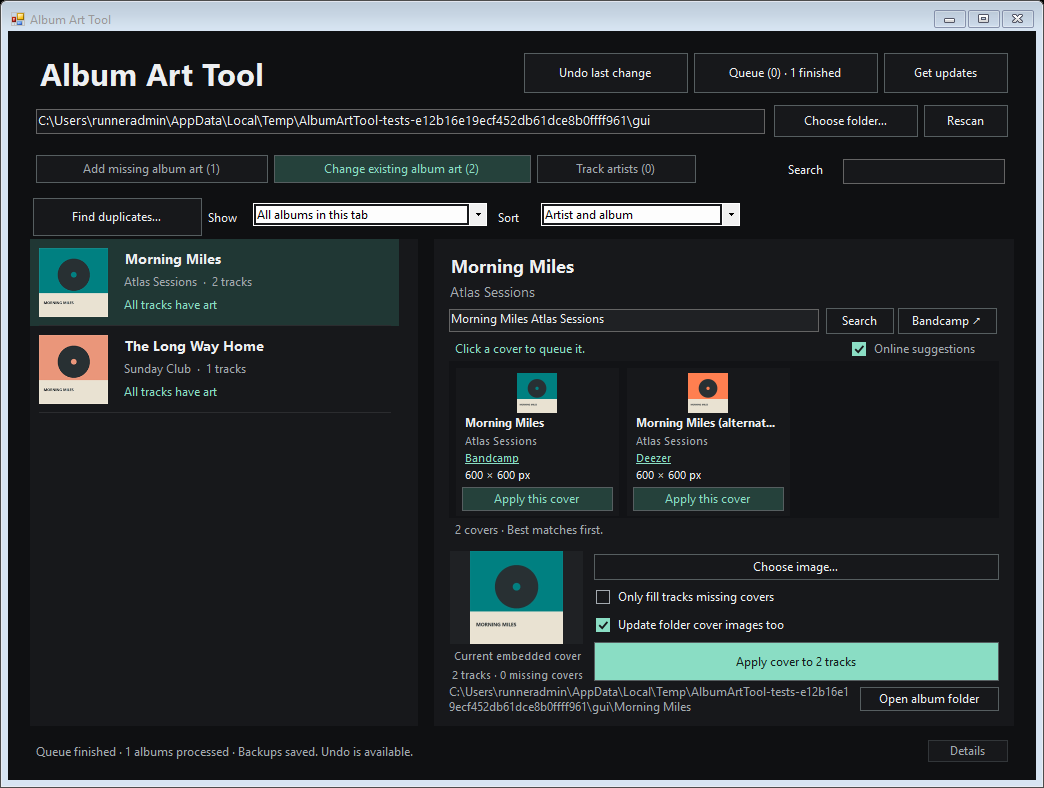
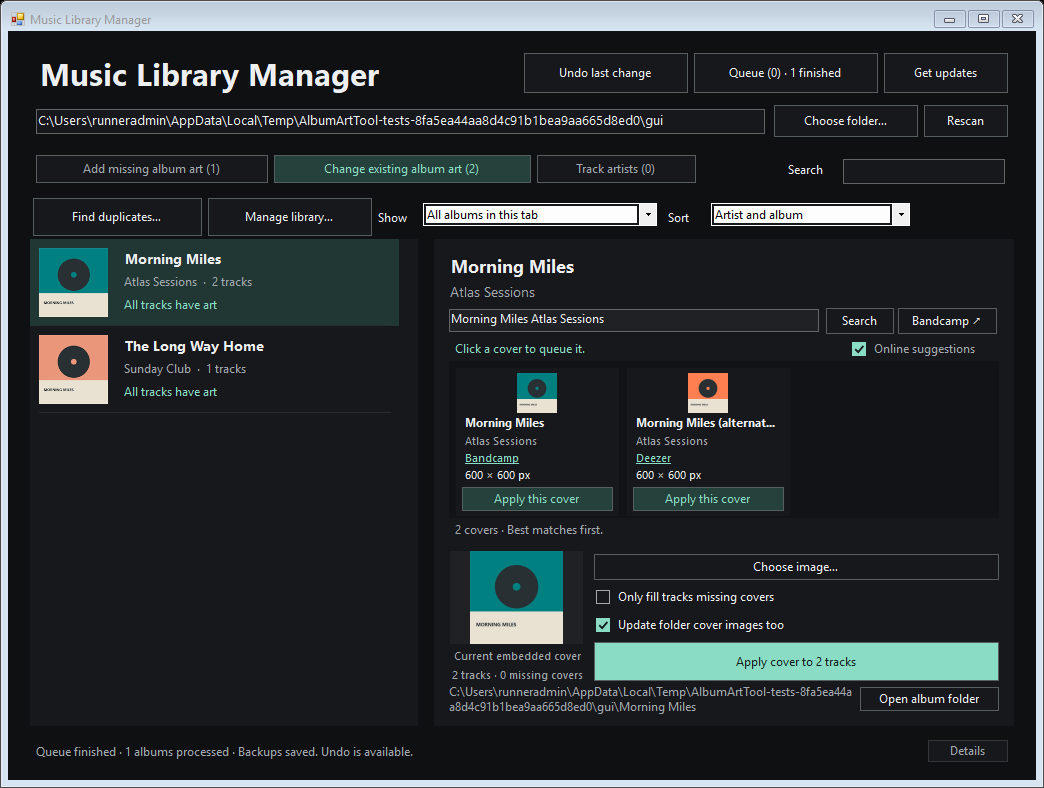
[release] Publish Music Library Manager 2.0 with unified processing and persistent Undo

diff --git a/src/AlbumArtTool/Management/LibraryPlan.cs b/src/AlbumArtTool/Management/LibraryPlan.cs
@@ -75,7 +75,7 @@ namespace AlbumArtTool.Management
         }
         internal static bool ShouldConvert(Track track, LibraryOptions options)
         {
-            if (!options.Convert) return false;
+            if (!options.Convert || track.HasVideo) return false;
             bool mp3 = Path.GetExtension(track.Path).Equals(".mp3", StringComparison.OrdinalIgnoreCase);
             return mp3 ? track.Bitrate > 320 : track.Lossless || track.Bitrate > 320 || options.ConvertOtherLossy;
         }
@@ -129,7 +129,8 @@ namespace AlbumArtTool.Management
                     if (row.Convert) row.Target = Path.ChangeExtension(row.Target, ".mp3");
                     LibraryPaths.Safe(row.Target, options.Root);
                     if (row.Target.Length > 250) throw new IOException("The organized path is longer than 250 characters. Shorten the artist/album/file names first.");
-                    if (!row.Convert && options.Convert) row.Reason = (row.Reason ?? "") + (track.Lossless ? "" : " Existing MP3/lower-bitrate lossy audio is not re-encoded.");
+                    if (track.HasVideo && options.Convert) row.Reason = "This file has video; automatic audio conversion is skipped.";
+                    if (!track.HasVideo && !row.Convert && options.Convert) row.Reason = (row.Reason ?? "") + (track.Lossless ? "" : " Existing MP3/lower-bitrate lossy audio is not re-encoded.");
                     actions.Add(track.Path, row);
                 }
                 catch (Exception e) when (Scanner.IsFileError(e) || Artwork.IsImageError(e)) { plan.Issues.Add(track.Path + ": " + e.Message); }
@@ -141,7 +142,7 @@ namespace AlbumArtTool.Management
                 var confirmed = matches.Songs.Where(g => g.Confirmed).Select(g => g.Tracks.ToArray()).ToList();
                 // Other containers can be confirmed by FFmpeg's demuxed packet hash when the encoder is available.
                 if (!string.IsNullOrEmpty(options.EncoderPath))
-                    foreach (var group in tracks.Where(t => !new[] { ".mp3", ".flac" }.Contains(Path.GetExtension(t.Path).ToLowerInvariant())).GroupBy(t => SongKey(t, albumFor[t.Path])).Where(g => g.Count() > 1))
+                    foreach (var group in tracks.Where(t => !t.HasVideo && !new[] { ".mp3", ".flac" }.Contains(Path.GetExtension(t.Path).ToLowerInvariant())).GroupBy(t => SongKey(t, albumFor[t.Path])).Where(g => g.Count() > 1))
                     {
                         token.ThrowIfCancellationRequested();
                         var hashes = new List<Tuple<Track, string>>();

diff --git a/tests/ManagementTests.cs b/tests/ManagementTests.cs
@@ -46,6 +46,7 @@ internal static partial class Tests
         Assert(Artwork.Square(cropped).SequenceEqual(cropped), "already-square artwork remains byte identical");
         foreach (string extension in new[] { ".mp3", ".m4a" })
             Assert(!LibraryPaths.ShouldConvert(new Track { Path = "x" + extension, Bitrate = 256 }, new LibraryOptions { Convert = true }), "default conversion does not upscale lower-bitrate lossy " + extension);
+        Assert(!LibraryPaths.ShouldConvert(new Track { Path = "video.mp4", HasVideo = true, Bitrate = 500 }, new LibraryOptions { Convert = true, ConvertOtherLossy = true }), "video containers are not silently replaced with audio-only files");
         Assert(!LibraryPaths.ShouldConvert(new Track { Path = "x.mp3", Bitrate = 320 }, new LibraryOptions { Convert = true }), "existing MP3 320 is not re-encoded");
         Assert(LibraryPaths.ShouldConvert(new Track { Path = "x.flac", Bitrate = 100, Lossless = true }, new LibraryOptions { Convert = true }), "lossless source is convertible even at a low compressed bitrate");
         Assert(LibraryPaths.ShouldConvert(new Track { Path = "x.m4a", Bitrate = 400 }, new LibraryOptions { Convert = true }), "over-320 lossy source is convertible");

diff --git a/src/AlbumArtTool/Core/Scanner.cs b/src/AlbumArtTool/Core/Scanner.cs
@@ -60,7 +60,7 @@ namespace AlbumArtTool.Core
                             album.Tracks.Add(new Track { Path = path, Title = file.Tag.Title ?? Path.GetFileNameWithoutExtension(path),
                                 Performer = file.Tag.FirstPerformer ?? "", Performers = file.Tag.Performers.ToArray(), AlbumArtists = file.Tag.AlbumArtists.ToArray(),
                                 AlbumTitle = file.Tag.Album ?? "", Disc = file.Tag.Disc, DiscCount = file.Tag.DiscCount, Number = file.Tag.Track,
-                                Bitrate = file.Properties.AudioBitrate,
+                                Bitrate = file.Properties.AudioBitrate, HasVideo = (file.Properties.MediaTypes & TagLib.MediaTypes.Video) != 0,
                                 Codec = string.Join("; ", file.Properties.Codecs.Where(c => c != null).Select(c => c.Description)),
                                 Lossless = Lossless(path, string.Join(" ", file.Properties.Codecs.Where(c => c != null).Select(c => c.Description)), file.InvariantStartPosition),
                                 Duration = file.Properties.Duration, HasTitleTag = !string.IsNullOrWhiteSpace(file.Tag.Title),

diff --git a/src/AlbumArtTool/Core/Models.cs b/src/AlbumArtTool/Core/Models.cs
@@ -36,6 +36,7 @@ namespace AlbumArtTool.Core
         public int Bitrate { get; set; }
         public string Codec { get; set; }
         public bool Lossless { get; set; }
+        public bool HasVideo { get; set; }
         public TimeSpan Duration { get; set; }
         public bool HasTitleTag { get; set; }
         public long AudioStart { get; set; } = -1;

diff --git a/README.md b/README.md
@@ -32,11 +32,13 @@ Scanning first counts supported music files using directory listings, without re
 
 Click **Manage library** in the main window. Choose any combination of:
 
-- **Convert lossless / over 320 kbps to MP3 320.** Lossless sources and audio reporting more than 320 kbps are eligible. Existing MP3s at 320 kbps or below and lower-bitrate lossy sources are left alone. Bitrate is a practical rule, not a way to measure perceptual quality across codecs. If compatibility matters more than avoiding another lossy encode, explicitly check **Also convert other non-MP3 audio**. That option does not improve the quality of a low-bitrate source. Conversion retains standard tags and embedded images, verifies the output's bitrate and duration, and decodes the complete new MP3 before replacing its source. Originals stay in the PC backup folder.
+- **Convert lossless / over 320 kbps to MP3 320.** Lossless sources and audio reporting more than 320 kbps are eligible. Existing MP3s at 320 kbps or below and lower-bitrate lossy sources are left alone. Bitrate is a practical rule, not a way to measure perceptual quality across codecs. If compatibility matters more than avoiding another lossy encode, explicitly check **Also convert other non-MP3 audio**. That option does not improve the quality of a low-bitrate source. Containers with a video track are skipped by automatic audio conversion and packet-hash-only duplicate removal. Conversion retains standard tags and embedded images, verifies the output's bitrate and duration, and decodes the complete new MP3 before replacing its source. Originals stay in the PC backup folder.
 - **Remove confirmed duplicate songs / albums.** Only verified matching file/audio contents within the same logical album and titled track are eligible. Conflicting known disc/track numbers are preserved. Copies on different albums, copies across folders without enough artist/album metadata, possible metadata-only matches, and distinct recordings are kept. A copy with embedded artwork is preferred; suffixes such as `(1)` or `copy` are disfavored. The preview names the retained copy. Removed copies go to verified PC backups, outside the active music tree. With FFmpeg available, matching demuxed audio packets can also verify retagged copies in other containers.
 - **Center-crop embedded artwork to squares.** Every nonsquare embedded image is cropped from its center at its native resolution. A 1800 × 1000 image becomes 1000 × 1000; it is not stretched or scaled down to a thumbnail. Already-square pictures keep their original image bytes. JPEG input stays JPEG; other input is saved as PNG. Cropping applies to all embedded pictures, including back covers; image order, types where supported by the format, and descriptions remain. Folder images are moved with albums but are not cropped by this option.
 - **Organize all folders into Artist / Album.** The app searches every level and builds a canonical path under the selected music root from embedded album-artist/artist and album tags. It does not trust or reproduce intermediate artist, year, downloads, or redundant folders. Existing filenames are preserved, apart from a changed `.mp3` extension after conversion and conflict suffixes when necessary. Disc subfolders are retained for identified multidisc releases. Tagged Various Artists albums stay together. Missing usable artist/album tags leave that track in place with an explanation. Empty old directories are removed after successful changes.
 - **Move old tool backups off the music player.** Old `.album-art-backups`, `.before-square-crop`, and `.covercrop-tmp-` backup files can be archived to the PC. Some players index hidden backup folders as more music, which can create apparent duplicates even when the active album itself is correct. This option is included in the preview and can be unchecked.
+
+![Preview of combined music-library changes](docs/library-manager.png)
 
 Set **Backups** to a folder on your PC, outside the selected music folder. The default is `%LOCALAPPDATA%\AlbumArtTool\LibraryBackups`. The preview estimates backup space; original-changing operations require that space before starting. Choose the top music folder rather than a whole PC drive if the backup folder would otherwise be inside the source tree.
 
